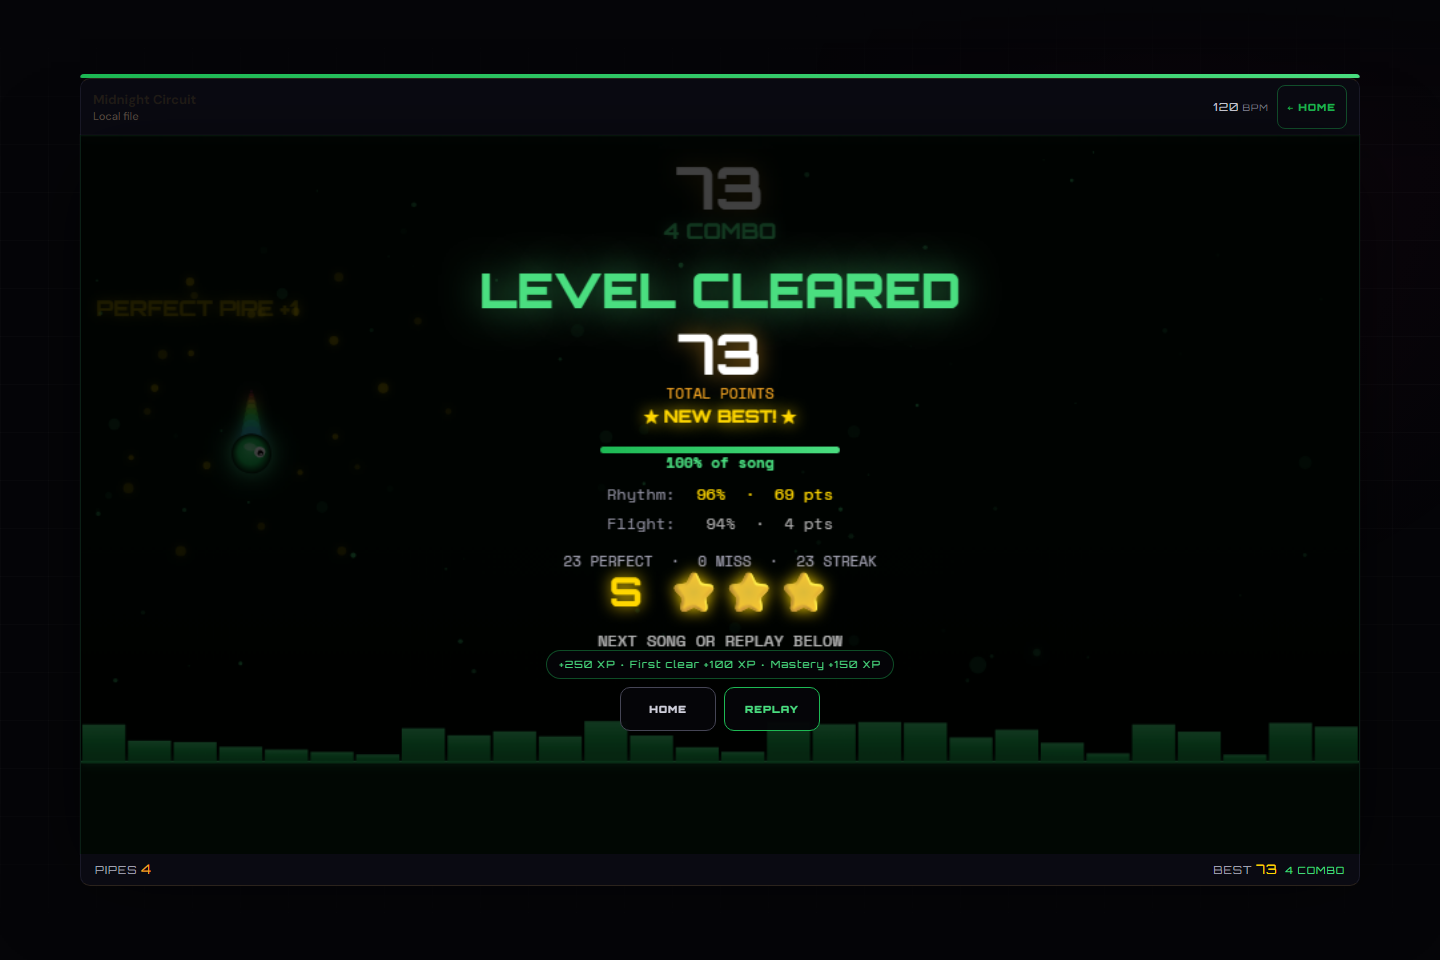
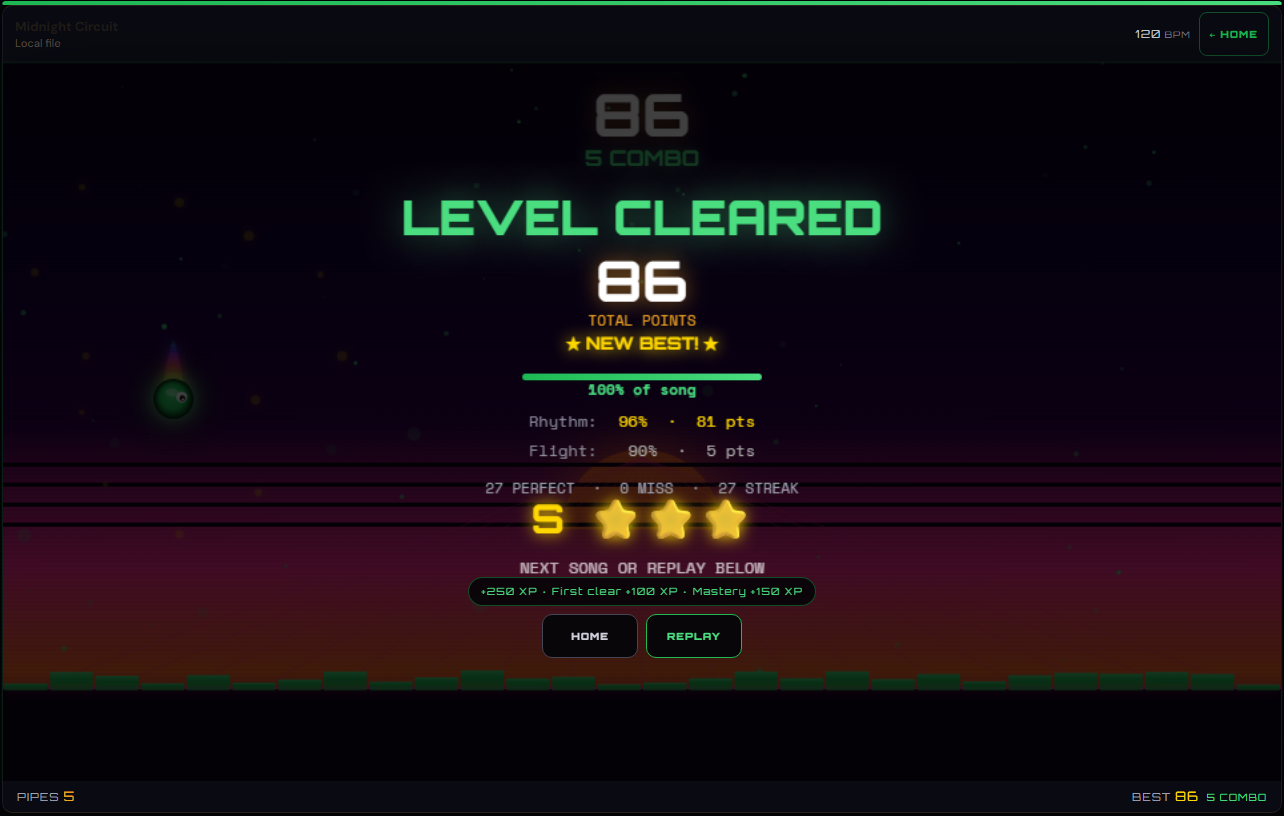
Show Spotify listening and diversify track layouts

diff --git a/src/game/rhythmMapper.js b/src/game/rhythmMapper.js
@@ -23,6 +23,21 @@ const RHYTHM_TUNING = {
 
 const clamp = (value, minimum, maximum) => Math.max(minimum, Math.min(maximum, value));
 
+const FLIGHT_PHRASES = [
+  // Rolling arcs, a climb with a return, and short alternating turns.
+  [0, .55, .9, 1, .8, .4, 0, -.55, -.9, -1, -.8, -.4],
+  [0, -.35, -.7, -1, -1, -.85, -.4, .15, .65, .9, .55, .25],
+  [0, .6, .95, .55, 0, -.65, -.95, -.55, 0, .5, .75, .4],
+];
+
+function trackPatternOffset(trackId) {
+  let hash = 0;
+  for (const character of trackId) {
+    hash = (Math.imul(hash, 31) + character.codePointAt(0)) >>> 0;
+  }
+  return hash % FLIGHT_PHRASES.length;
+}
+
 function median(values, fallback) {
   if (!values.length) return fallback;
   const sorted = [...values].sort((a, b) => a - b);
@@ -122,7 +137,7 @@ function sectionAt(sections, time) {
   return active;
 }
 
-export function buildRhythmSchedule(analysis, features, difficulty, diffSettings, baseGap) {
+export function buildRhythmSchedule(analysis, features, difficulty, diffSettings, baseGap, trackId = "") {
   const beats = analysis?.beats || [];
   const bars = analysis?.bars || [];
   const bpm = Math.max(50, features?.tempo || 120);
@@ -156,20 +171,22 @@ export function buildRhythmSchedule(analysis, features, difficulty, diffSettings
   const safeBottom = ground - 30 - responsiveGapFloor / 2;
   const centerY = (safeTop + safeBottom) / 2;
 
-  // One actionable target per pulse. The eight-pulse wave acts as a readable
-  // phrase, giving the song visible direction without random vertical jumps.
+  // Start each track on a stable phrase, then change the shape with the music.
+  const patternOffset = trackPatternOffset(trackId);
+  let phraseStart = 0;
+  let sectionIndex = 0;
   const beatDots = pulses.map((pulse, index) => {
-    const section = sectionAt(sections, pulse.time);
+    while (sections[sectionIndex + 1]?.start <= pulse.time) {
+      sectionIndex++;
+      phraseStart = index;
+    }
+    const section = sections[sectionIndex] || { energy: 0.5 };
     const amplitude = tuning.pathAmplitude * (0.78 + section.energy * 0.28);
-    // Twelve pulses create alternating rises, falls, and returns. Sampling this
-    // path every 3–4 pulses gives gates different musical directions instead
-    // of placing every downbeat at the same vertical midpoint.
-    const phrasePhase = index * (Math.PI / 6) + ((section.start || 0) % 8) * 0.08;
-    const primaryWave = Math.sin(phrasePhase) * amplitude;
-    const secondaryWave = Math.sin(index * Math.PI / 2) * amplitude * 0.12;
+    const phrase = FLIGHT_PHRASES[(patternOffset + sectionIndex) % FLIGHT_PHRASES.length];
+    const heightOffset = phrase[(index - phraseStart) % phrase.length] * amplitude;
     return {
       time: pulse.time,
-      y: clamp(centerY + primaryWave + secondaryWave, safeTop, safeBottom),
+      y: clamp(centerY + heightOffset, safeTop, safeBottom),
       beatType: pulse.beatType,
       isDownbeat: pulse.isDownbeat,
       isSubdivision: pulse.isSubdivision,

diff --git a/test/rhythmMapper.test.js b/test/rhythmMapper.test.js
@@ -59,3 +59,20 @@ test("authored tap impulses lead ballistically to the next rhythm target", () =>
     assert.ok(Math.abs(predictedY - next.y) < 0.001);
   }
 });
+
+test("tracks with the same tempo can have different paths that repeat on replay", () => {
+  const analysis = generateSyntheticAnalysis(120, 60);
+  const features = { tempo: 120, energy: 0.7 };
+  const mapTrack = id => buildRhythmSchedule(analysis, features, "normal", { gapM: 1 }, 175, id);
+  const first = mapTrack("track-a");
+  const second = mapTrack("track-b");
+  const replay = mapTrack("track-a");
+
+  assert.deepEqual(first.schedule, replay.schedule);
+  assert.deepEqual(first.beatDots, replay.beatDots);
+  assert.deepEqual(first.schedule.map(gate => gate.hitTime), second.schedule.map(gate => gate.hitTime));
+  assert.notDeepEqual(first.schedule.map(gate => gate.gapY), second.schedule.map(gate => gate.gapY));
+  const firstSection = first.beatDots.filter(dot => dot.time < 15);
+  const secondSection = first.beatDots.filter(dot => dot.time >= 15);
+  assert.notEqual(Math.sign(firstSection[1].y - firstSection[0].y), Math.sign(secondSection[1].y - secondSection[0].y));
+});

diff --git a/src/SpotifyFlappy.jsx b/src/SpotifyFlappy.jsx
@@ -1304,7 +1304,7 @@ export default function SpotifyFlappy() {
     const gap = BASE_GAP * (1.25 - energy * 0.45) * dm.gapM;
 
     // Build rhythm-driven pipe schedule from audio analysis
-    const pipeData = buildPipeSchedule(anaRef.current, f, diffRef.current, dm, BASE_GAP);
+    const pipeData = buildPipeSchedule(anaRef.current, f, diffRef.current, dm, BASE_GAP, trackRef.current?.id);
     const { schedule: pipeSchedule, sections, bars, beats, barStarts, beatDots, trailDots } = pipeData;
     const speed = pipeData.speed || BASE_SPEED * dm.spdM;
     const rhythmPhysics = pipeData.physics || { gravity: GRAVITY, flapVelocity: FLAP_VEL, maxUpVelocity: MAX_UP_VEL };

diff --git a/src/game/beatMapper.js b/src/game/beatMapper.js
@@ -148,8 +148,8 @@ function getSectionEnergy(sections, time) {
  * @param {number} baseGap - base gap size in pixels
  * @returns {Object} { schedule, sections, bars, beats }
  */
-export function buildPipeSchedule(analysis, features, difficulty, diffSettings, baseGap) {
-  return buildRhythmSchedule(analysis, features, difficulty, diffSettings, baseGap);
+export function buildPipeSchedule(analysis, features, difficulty, diffSettings, baseGap, trackId) {
+  return buildRhythmSchedule(analysis, features, difficulty, diffSettings, baseGap, trackId);
 }
 
 function buildLegacyPipeSchedule(analysis, features, difficulty, diffSettings, baseGap) {

diff --git a/README.md b/README.md
@@ -1,8 +1,34 @@
 # Flappyfy
 
-Flappyfy is a rhythm-based flight game that turns a local audio file into a playable level. Choose a song, tap in time to collect rhythm targets, and steer through pipes until the track ends. The browser analyzes the file to place targets and obstacles around its beats and changes in energy.
+Flappyfy is a browser rhythm game built around the music you listen to. The Spotify prototype brings your playlists, top tracks, and recent listening into the game. You can also pick a song from your device. Tap to collect rhythm targets and fly through pipes until the track ends.
 
-![A Flappyfy run in progress with a live score, rhythm targets, and an approaching pipe](docs/screenshots/gameplay.png)
+## Spotify listening
+
+- **Library** brings together your Spotify playlists, recent tracks, and top tracks from different listening periods.
+- **Search** finds songs in the Spotify catalog. **Daily Roundup** combines recent Spotify listening with tracks you’ve played in Flappyfy.
+- **Playlist journeys** let you clear tracks one at a time, earn XP at chapter checkpoints, and resume where you left off.
+
+| Spotify playlists | Recent listening |
+| --- | --- |
+| ![Spotify playlist library with sample playlists](docs/screenshots/spotify-library.png) | ![Spotify listening history with sample tracks and time-range filters](docs/screenshots/spotify-listening.png) |
+
+These screens show the running app with sample Spotify data. The catalog playback prototype uses the Spotify Web Playback SDK and requires Premium, an authorized developer app, and a matching redirect URI. The track screen identifies whether timing comes from analysis, a preview, available tempo data, or an estimate. Copy [`.env.example`](.env.example) to `.env` to configure the integration. See the [Spotify connection screen](docs/screenshots/spotify-connect.png) and the [Spotify Developer Policy](https://developer.spotify.com/policy).
+
+Last.fm listening profiles can also inform recommendations when a `VITE_LASTFM_API_KEY` is configured.
+
+## Level designs
+
+Tracks can open on different flight paths even at the same tempo. The path switches between rolling arcs, climbs, and shorter turns as the song moves through sections. Easy, Normal, and Hard vary pipe openings, approach times, and hit windows. In-game themes also change the look of the stage and its pipes.
+
+**Neon Synthwave · Normal**
+
+![Neon Synthwave stage with a live score, rhythm targets, and an approaching pipe](docs/screenshots/gameplay.png)
+
+| K-Pop Kawaii · Easy | Pop-Art Comic · Hard |
+| --- | --- |
+| ![K-Pop Kawaii stage with a wide pipe opening and pastel scenery](docs/screenshots/kawaii.png) | ![Pop-Art Comic stage with a tighter opening and comic-style pipes](docs/screenshots/pop-art.png) |
+
+Gameplay screenshots show three generated test tracks played through the web build.
 
 ## Play locally
 
@@ -13,7 +39,7 @@ npm ci
 npm run dev
 ```
 
-Open `http://127.0.0.1:5173/`, choose **Drop in your track**, and select an audio file your browser can decode. Choose **Start Run**, then tap the play area or press **Space** to flap. Use the pause button or **Esc** to pause. On a phone, rotate to landscape for the full play area.
+Open `http://127.0.0.1:5173/`. Choose **Log in with Spotify** for the configured prototype, or **Drop in your track** for a file your browser can decode. Choose **Start Run**, then tap the play area or press **Space** to flap. Use the pause button or **Esc** to pause. On a phone, rotate to landscape for the full play area.
 
 - Perfect, Great, and Good rhythm hits earn **3, 2, and 1 point** respectively. Each cleared pipe earns **1 point**.
 - The results screen breaks down rhythm accuracy, flight accuracy, song completion, grade, and XP. Personal bests, track mastery, and playlist progress are saved in the browser.
@@ -22,8 +48,6 @@ Open `http://127.0.0.1:5173/`, choose **Drop in your track**, and select an audi
 | Home | Results |
 | --- | --- |
 | ![Flappyfy home screen with local audio, playlists, and best runs](docs/screenshots/home.png) | ![Completed Flappyfy run with total points, accuracy, and mastery stars](docs/screenshots/results.png) |
-
-Screenshots show the running web build playing a generated test track.
 
 ## Build and install
 
@@ -36,12 +60,6 @@ npm run preview
 The production build is in `dist/`. Serve that directory over HTTPS and open it in Android Chrome to install it from the browser menu.
 
 To test the local preview in an Android Studio emulator, run `adb reverse tcp:4173 tcp:4173` and open `http://127.0.0.1:4173/` inside the emulator.
-
-## Music integrations
-
-Local play works without a Spotify or Last.fm account. Last.fm can use a listening profile for recommendations when a `VITE_LASTFM_API_KEY` is configured.
-
-The Spotify catalog integration is experimental. It requires Spotify Premium, an authorized Spotify developer app, and a matching redirect URI. See [`.env.example`](.env.example) for the local configuration and the [Spotify Developer Policy](https://developer.spotify.com/policy) for its restrictions on games and synchronization.
 
 ## Project structure
 
